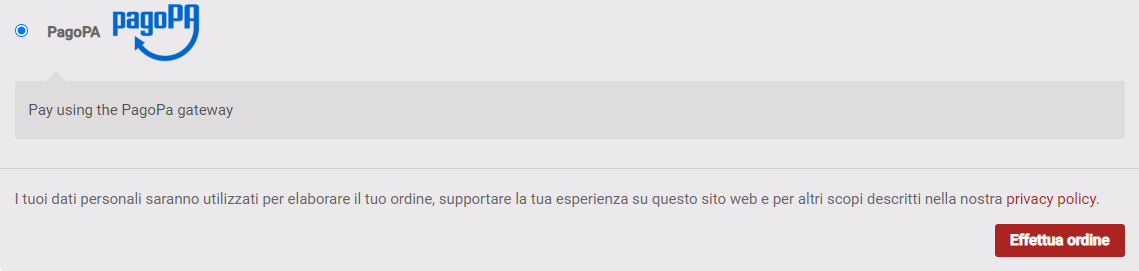
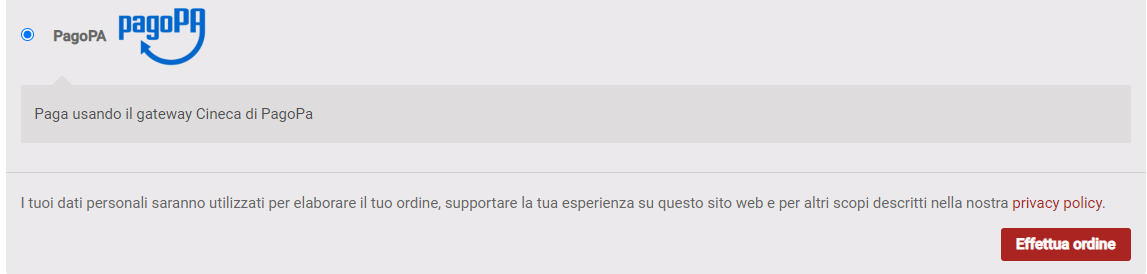
* Renamed PagoPa in PagoPA in comments, fixed the publiccode.yml file and the screenshots

diff --git a/wp-pagopa-gateway-cineca.php b/wp-pagopa-gateway-cineca.php
@@ -1,15 +1,15 @@
 <?php
 /**
- * PagoPa Gateway Cineca
+ * PagoPA Gateway Cineca
  *
- * @package     PagoPa Gateway Cineca
+ * @package     PagoP Gateway Cineca
  * @author      ICT Scuola Normale Superiore
  * @copyright   © 2021-2022, SNS
  * @license     GNU General Public License v3.0
  *
- * Plugin Name: PagoPa Gateway Cineca
+ * Plugin Name: PagoPA Gateway Cineca
  * Plugin URI:
- * Description: Plugin to integrate WooCommerce with Cineca PagoPa payment portal
+ * Description: Plugin to integrate WooCommerce with Cineca PagoPA payment portal
  * Version: 0.0.1
  * Author: ICT Scuola Normale Superiore
  * Author URI: https://ict.sns.it
@@ -64,7 +64,7 @@ function uninstall_pagopa_plugin() {
  */
 add_filter( 'woocommerce_payment_gateways', 'wp_gateway_pagopa_add' );
 /**
- * Add PagoPa gateway.
+ * Add PagoPA gateway.
  *
  * @param  array $gateways .
  * @return array $gateways .
@@ -76,7 +76,7 @@ function wp_gateway_pagopa_add( $gateways ) {
 
 add_action( 'plugins_loaded', 'wp_gateway_pagopa_init' );
 /**
- * Init PagoPa class.
+ * Init PagoPA class.
  */
 function wp_gateway_pagopa_init() {
 
@@ -111,7 +111,7 @@ function wp_gateway_pagopa_init() {
 			);
 
 			$this->load_plugin_textdomain();
-			$this->method_description = __( 'Pay with the Cineca PagoPa Gateway', 'wp-pagopa-gateway-cineca' );
+			$this->method_description = __( 'Pay with the Cineca PagoPA Gateway', 'wp-pagopa-gateway-cineca' );
 
 			// Method with all the options fields.
 			$this->init_form_fields();
@@ -164,7 +164,7 @@ function wp_gateway_pagopa_init() {
 					'title'       => __( 'Description', 'wp-pagopa-gateway-cineca' ),
 					'type'        => 'text',
 					'description' => __( 'The description of the plugin', 'wp-pagopa-gateway-cineca' ),
-					'default'     => __( 'Pay using the Cineca Gateway for PagoPa', 'wp-pagopa-gateway-cineca' ),
+					'default'     => __( 'Pay using the Cineca Gateway for PagoPA', 'wp-pagopa-gateway-cineca' ),
 				),
 				// Place the payment gateway in test mode using test API credentials.
 				'testmode'               => array(
@@ -199,7 +199,7 @@ function wp_gateway_pagopa_init() {
 				'accounting_code'        => array(
 					'title'       => __( 'Accounting code', 'wp-pagopa-gateway-cineca' ),
 					'type'        => 'text',
-					'description' => __( 'Accounting code as defined in the PagoPa taxonomy (https://www.pagopa.gov.it/it/pubbliche-amministrazioni/documentazione/#n3)', 'wp-pagopa-gateway-cineca' ),
+					'description' => __( 'Accounting code as defined in the PagoPA taxonomy (https://www.pagopa.gov.it/it/pubbliche-amministrazioni/documentazione/#n3)', 'wp-pagopa-gateway-cineca' ),
 					'default'     => '0601120SP',
 				),
 				'id_payment_model'       => array(

diff --git a/inc/class-gateway-controller.php b/inc/class-gateway-controller.php
@@ -5,7 +5,7 @@
  *
  * @author      ICT Scuola Normale Superiore
  * @category    Payment Module
- * @package     PagoPa Gateway Cineca
+ * @package     PagoPA Gateway Cineca
  * @version     0.0.1
  * @copyright   Copyright (c) 2021 SNS)
  * @license     GNU General Public License v3.0

diff --git a/inc/class-log-manager.php b/inc/class-log-manager.php
@@ -5,7 +5,7 @@
  *
  * @author      ICT Scuola Normale Superiore
  * @category    Payment Module
- * @package     PagoPa Gateway Cineca
+ * @package     PagoPA Gateway Cineca
  * @version     0.0.1
  * @copyright   Copyright (c) 2021 SNS)
  * @license     GNU General Public License v3.0

diff --git a/README.md b/README.md
@@ -1,4 +1,4 @@
-# PagoPa Gateway
+# PagoPA Gateway
 Plugin WooCommerce per l'integrazione con portale di pagamenti PagoPA Cineca
 
 
